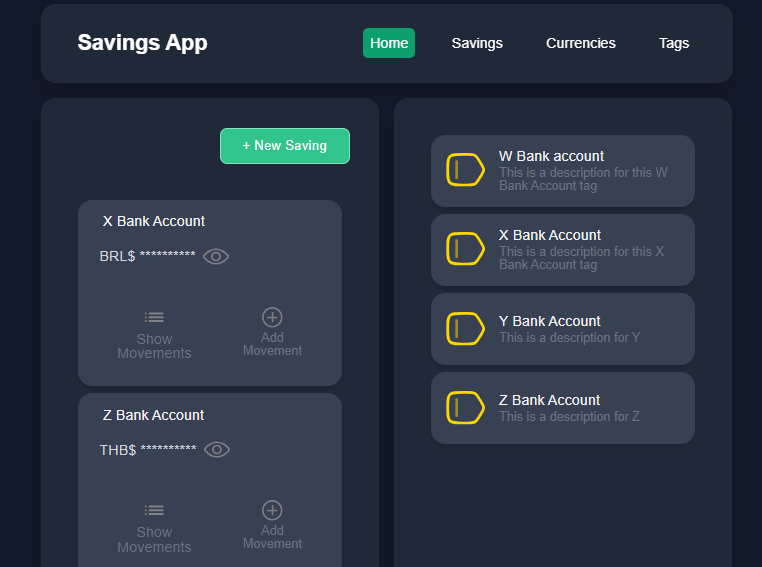
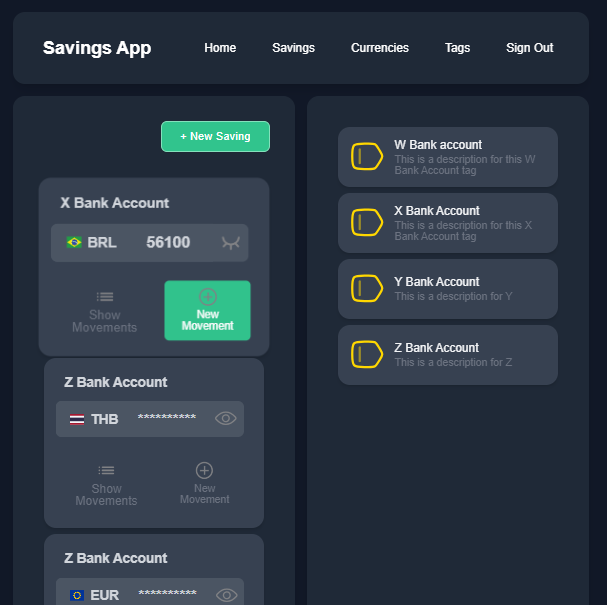
KAN-56 Updates README.md file with current screenshots (new movement and google login )

diff --git a/README.md b/README.md
@@ -6,6 +6,12 @@ Additionally a saving can have different shapes, e.g. euros on different bank ac
 
 ## Screenshots
 
+### Sign In with Google
+
+Provides access to app features by registering or login in with a Google Account.
+
+![Google Sign In](documentation/GoogleSignIn.png "Google Sign In")
+
 ### Home
 
 Shows a grid with all the personal savings, allowing to filter by tag and currency.
@@ -29,6 +35,12 @@ Shows a list of current savings
 Allows to add a new saving in a specific currency and tag.
 
 ![Add saving](documentation/OnNewSaving.png "Add saving")
+
+#### Adding a new movement
+
+Allows to make a new addition or sustraction movement to a saving.
+
+![Add movement](documentation/OnAddSavingMovement.png "Add movement")
 
 
 #### Showing a saving movements list
@@ -72,9 +84,10 @@ Showing required fields error
 ![Remove saving](documentation/OnRemoveTag.png "Remove Tag")
 
 
-### Future work
-
-- Filtering
+### Current work
 - Google login
-- Currency reports
+
+### Future work
+- Filtering
 - Currency converter
+- Currency reports
